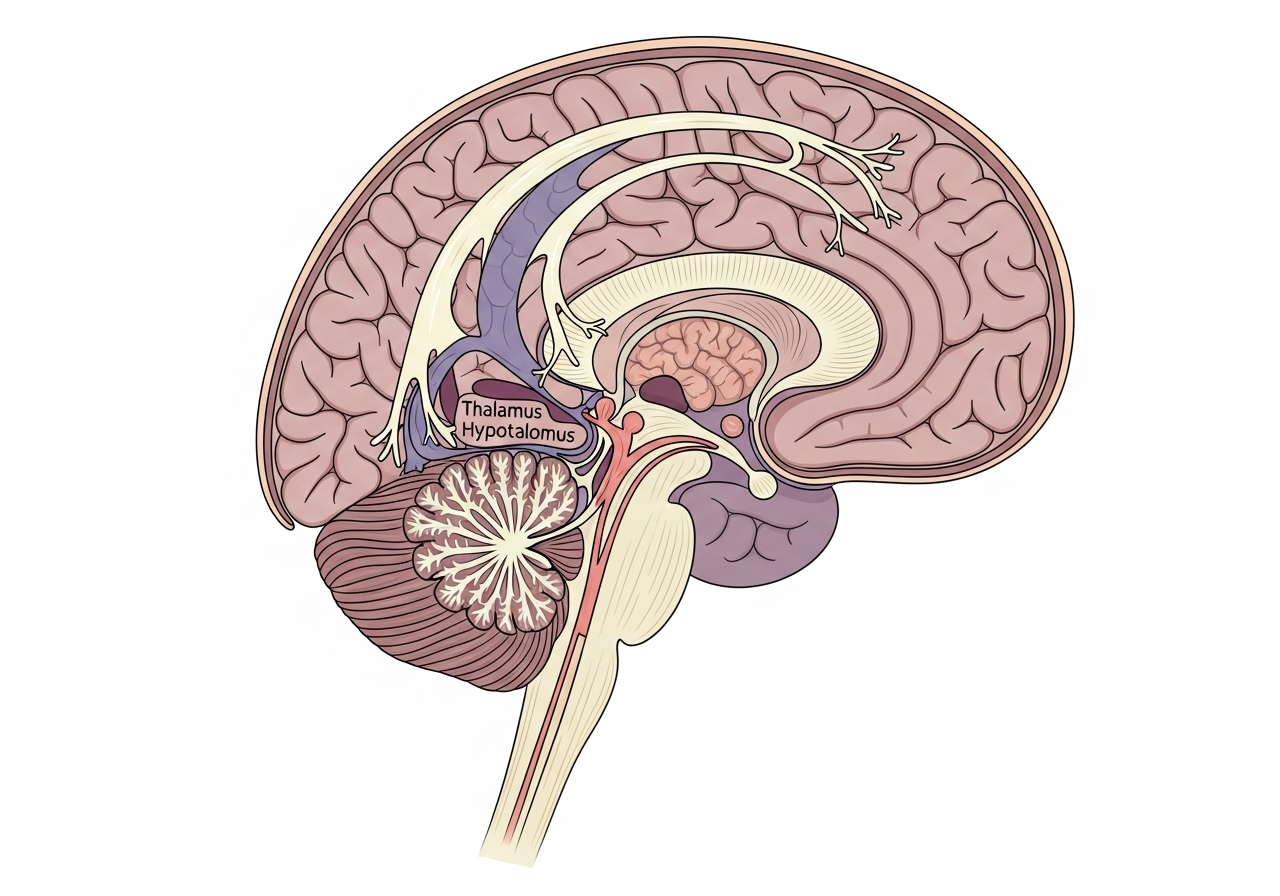
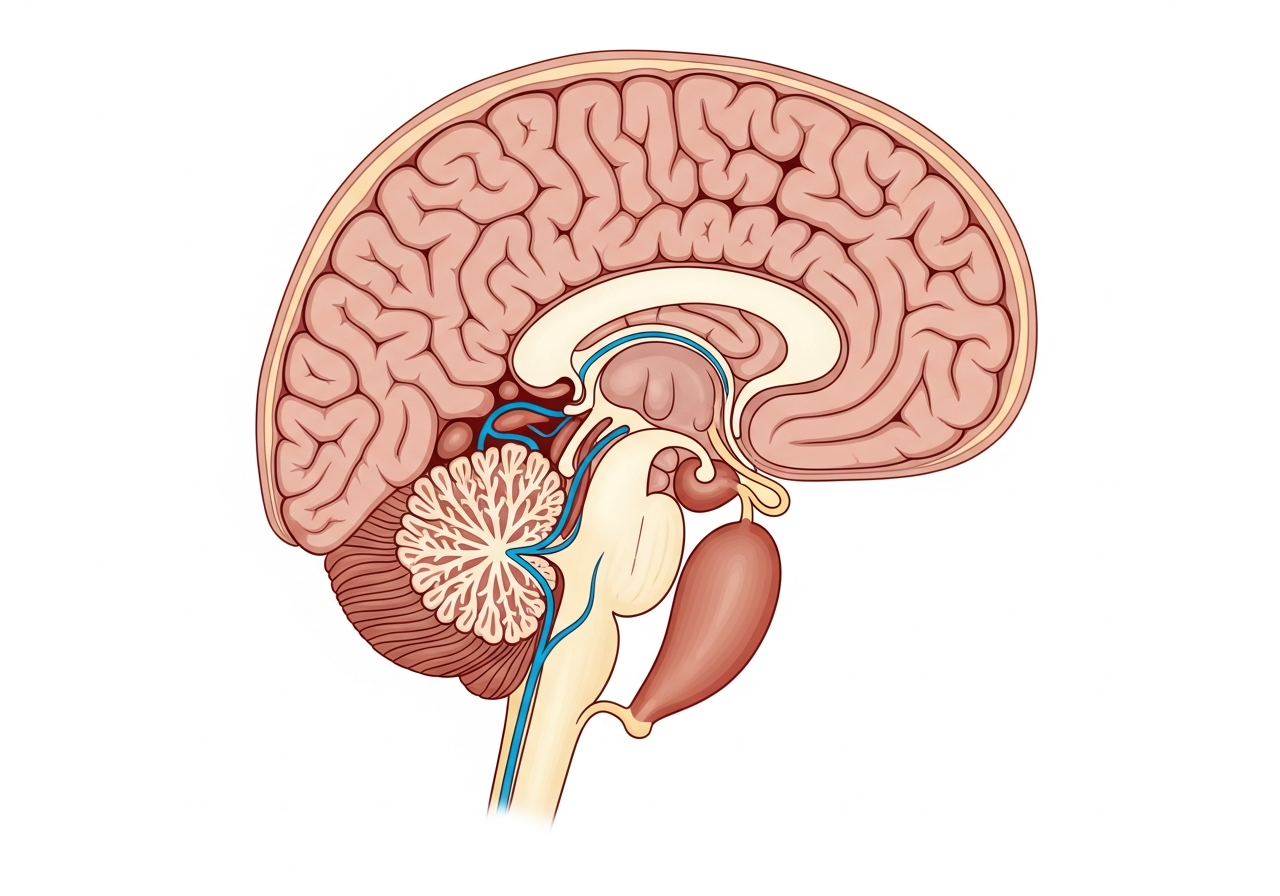
Correct anatomy image labels and update nervous system diagram
Update hotspot labels for respiratory and nervous system diagrams, and regenerate the nervous system image without text.

Replit-Commit-Author: Agent
Replit-Commit-Session-Id: 1f5a5545-029d-40b9-9ad8-7a900e9af9ff
Replit-Commit-Checkpoint-Type: full_checkpoint
Replit-Commit-Event-Id: c9ff809a-e875-4cb6-a7d5-0094fdfa43c1
Replit-Commit-Screenshot-Url: https://storage.googleapis.com/screenshot-production-us-central1/ab7af924-d140-4809-b680-61e38d9b6f0e/1f5a5545-029d-40b9-9ad8-7a900e9af9ff/xmr6Enz
Replit-Helium-Checkpoint-Created: true

Changed region(s): [[0.1875, 0.0312, 0.8438, 0.9688]]

diff --git a/client/src/components/anatomy-diagrams.tsx b/client/src/components/anatomy-diagrams.tsx
@@ -79,16 +79,16 @@ export function LungsSVG() {
 }
 
 export const lungLabels: LabelPoint[] = [
-  { id: "nasal", x: 210, y: 40, label: "Nasal Cavity", hint: "Warms, humidifies, and filters inhaled air; lined with ciliated mucous membrane" },
-  { id: "pharynx", x: 240, y: 85, label: "Pharynx", hint: "Shared passageway for air and food; connects nasal cavity to larynx" },
-  { id: "trachea", x: 290, y: 155, label: "Trachea", hint: "Cartilage-ringed airway (C-shaped rings); connects larynx to bronchi; lined with ciliated epithelium" },
-  { id: "rbronchus", x: 220, y: 210, label: "Right Main Bronchus", hint: "Wider, shorter, and more vertical than the left; aspirated objects more likely to enter here" },
-  { id: "lbronchus", x: 370, y: 220, label: "Left Main Bronchus", hint: "Narrower and longer; angles more horizontally due to heart position" },
-  { id: "rlung", x: 140, y: 280, label: "Right Lung", hint: "Has 3 lobes (superior, middle, inferior); slightly larger than the left lung" },
-  { id: "llung", x: 430, y: 260, label: "Left Lung", hint: "Has 2 lobes (superior, inferior); smaller due to cardiac notch accommodating the heart" },
-  { id: "alveoli", x: 530, y: 100, label: "Alveoli", hint: "Tiny air sacs where gas exchange occurs; surrounded by capillary networks; surfactant prevents collapse" },
-  { id: "diaphragm", x: 300, y: 410, label: "Diaphragm", hint: "Primary muscle of respiration; contracts and flattens during inhalation to expand thoracic cavity" },
-  { id: "bronchioles", x: 170, y: 230, label: "Bronchioles", hint: "Smallest airways without cartilage; smooth muscle controls diameter; site of bronchoconstriction in asthma" },
+  { id: "trachea", x: 300, y: 50, label: "Trachea", hint: "Cartilage-ringed airway (C-shaped rings); connects larynx to bronchi; lined with ciliated epithelium" },
+  { id: "rbronchus", x: 220, y: 175, label: "Right Main Bronchus", hint: "Wider, shorter, and more vertical than the left; aspirated objects more likely to enter here" },
+  { id: "lbronchus", x: 380, y: 175, label: "Left Main Bronchus", hint: "Narrower and longer; angles more horizontally due to heart position" },
+  { id: "rlung", x: 145, y: 225, label: "Right Lung", hint: "Has 3 lobes (superior, middle, inferior); slightly larger than the left lung" },
+  { id: "llung", x: 455, y: 225, label: "Left Lung", hint: "Has 2 lobes (superior, inferior); smaller due to cardiac notch accommodating the heart" },
+  { id: "bronchioles", x: 195, y: 270, label: "Bronchioles", hint: "Smallest airways without cartilage; smooth muscle controls diameter; site of bronchoconstriction in asthma" },
+  { id: "alveoli", x: 410, y: 145, label: "Alveoli", hint: "Tiny air sacs where gas exchange occurs; surrounded by capillary networks; surfactant prevents collapse" },
+  { id: "pulmonary-artery", x: 265, y: 125, label: "Pulmonary Artery", hint: "Carries deoxygenated blood from the right ventricle to the lungs for gas exchange" },
+  { id: "pulmonary-vein", x: 340, y: 125, label: "Pulmonary Vein", hint: "Returns oxygenated blood from the lungs to the left atrium of the heart" },
+  { id: "diaphragm", x: 300, y: 395, label: "Diaphragm", hint: "Primary muscle of respiration; contracts and flattens during inhalation to expand thoracic cavity" },
 ];
 
 export function BrainSVG() {
@@ -115,12 +115,14 @@ export function BrainSVG() {
 }
 
 export const brainLabels: LabelPoint[] = [
-  { id: "frontal", x: 140, y: 120, label: "Frontal Lobe", hint: "Reasoning, planning, motor function" },
-  { id: "parietal", x: 280, y: 110, label: "Parietal Lobe", hint: "Sensory processing, spatial awareness" },
-  { id: "temporal", x: 120, y: 230, label: "Temporal Lobe", hint: "Hearing, memory, language" },
-  { id: "occipital", x: 350, y: 200, label: "Occipital Lobe", hint: "Visual processing" },
-  { id: "cerebellum", x: 190, y: 340, label: "Cerebellum", hint: "Coordination and balance" },
-  { id: "brainstem", x: 230, y: 380, label: "Brainstem", hint: "Vital functions: breathing, heart rate" },
+  { id: "cerebral-cortex", x: 270, y: 80, label: "Cerebral Cortex", hint: "Outer layer of the cerebrum; responsible for higher-order functions including reasoning, sensation, and voluntary movement" },
+  { id: "corpus-callosum", x: 305, y: 155, label: "Corpus Callosum", hint: "Thick band of nerve fibers connecting the left and right cerebral hemispheres; enables communication between brain halves" },
+  { id: "thalamus", x: 335, y: 210, label: "Thalamus", hint: "Relay station for sensory information; routes signals to the appropriate cortical area for processing" },
+  { id: "hypothalamus", x: 275, y: 245, label: "Hypothalamus", hint: "Controls homeostasis: body temperature, hunger, thirst, circadian rhythms; links nervous and endocrine systems" },
+  { id: "pituitary", x: 330, y: 280, label: "Pituitary Gland", hint: "Master endocrine gland; secretes hormones that regulate growth, metabolism, and reproduction" },
+  { id: "cerebellum", x: 185, y: 300, label: "Cerebellum", hint: "Coordinates voluntary movement, balance, and motor learning; contains more neurons than the rest of the brain" },
+  { id: "brainstem", x: 290, y: 370, label: "Brainstem", hint: "Controls vital autonomic functions: breathing, heart rate, blood pressure; includes midbrain, pons, and medulla oblongata" },
+  { id: "spinal-cord", x: 270, y: 430, label: "Spinal Cord", hint: "Extension of the brainstem; carries motor and sensory signals between the brain and the rest of the body" },
 ];
 
 export function KidneySVG() {
